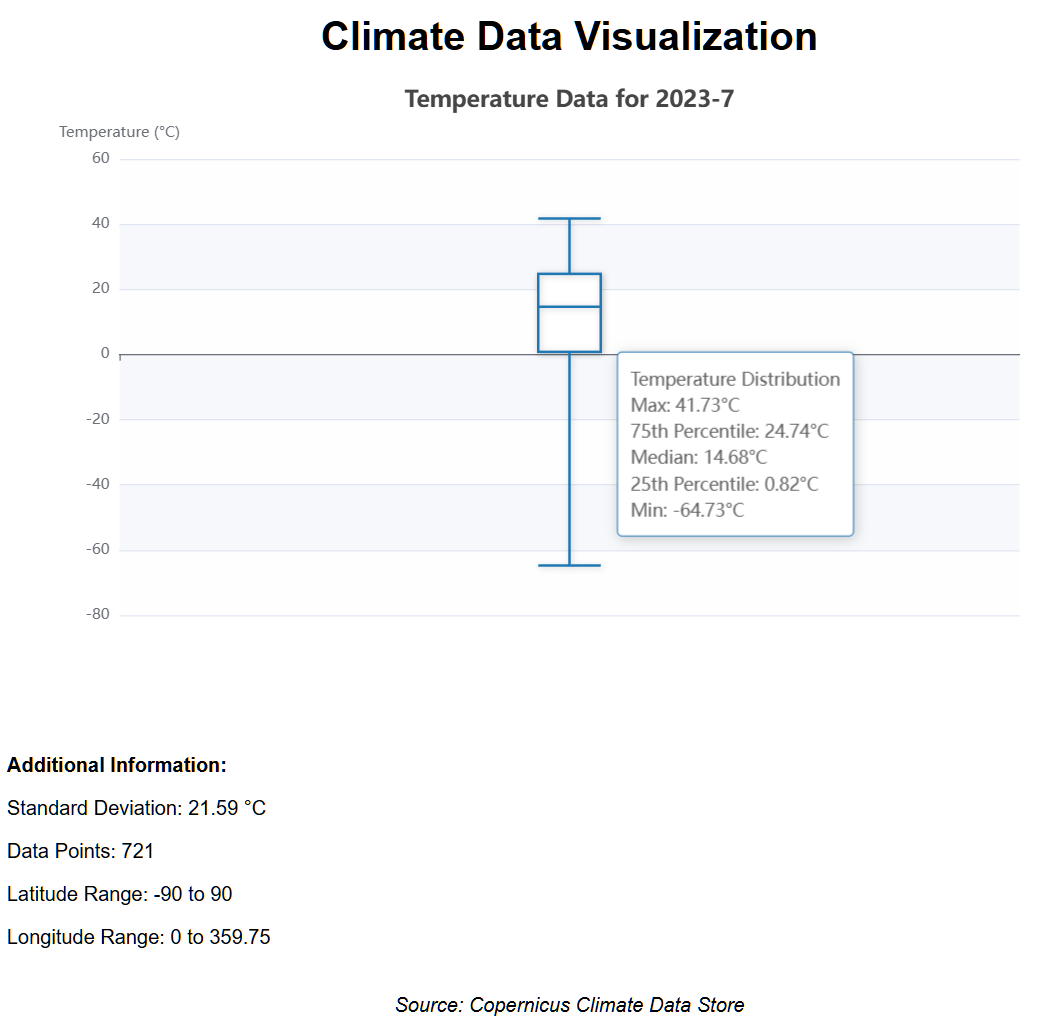
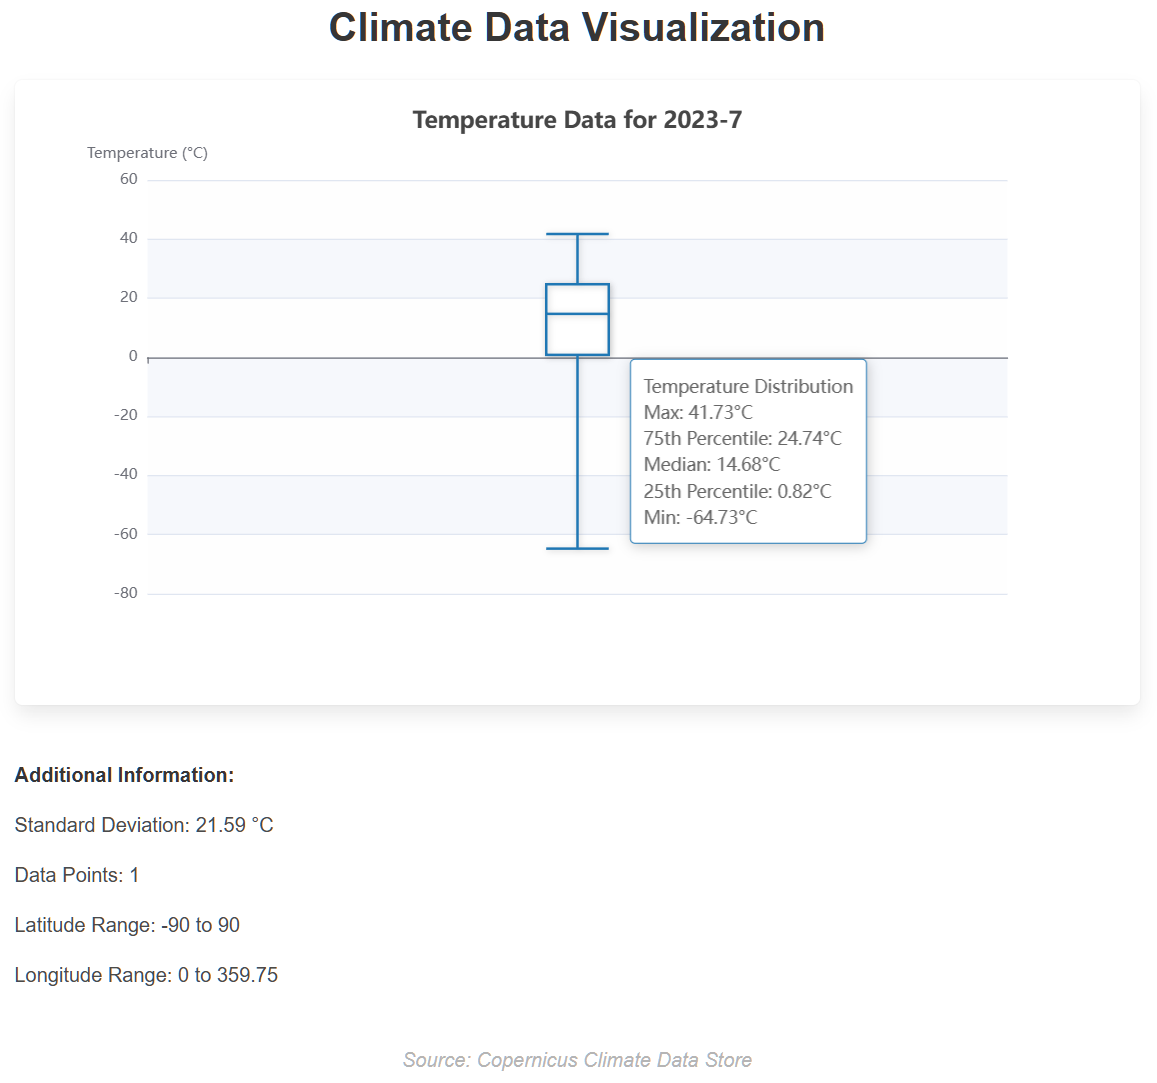
add some default styling

diff --git a/static/index.html b/static/index.html
@@ -5,6 +5,7 @@
     <meta name="viewport" content="width=device-width, initial-scale=1.0">
     <title>Climate Data Visualization</title>
     <script src="https://cdn.jsdelivr.net/npm/echarts@5.4.2/dist/echarts.min.js"></script>
+    <link rel="stylesheet" href="https://cdn.jsdelivr.net/npm/bulma@0.9.3/css/bulma.min.css">
     <style>
         body {
             font-family: Arial, sans-serif;
@@ -37,12 +38,12 @@
     </style>
 </head>
 <body>
-    <h1>Climate Data Visualization</h1>
-    <div id="chart-container">
+    <h1 class="title">Climate Data Visualization</h1>
+    <div id="chart-container" class="box">
         <div id="chart"></div>
     </div>
-    <div id="additional-info"></div>
-    <div id="source">Source: Copernicus Climate Data Store</div>
+    <div id="additional-info" class="content"></div>
+    <div id="source" class="has-text-grey-light">Source: Copernicus Climate Data Store</div>
     <script src="/static/js/visualization.js"></script>
 </body>
 </html>
